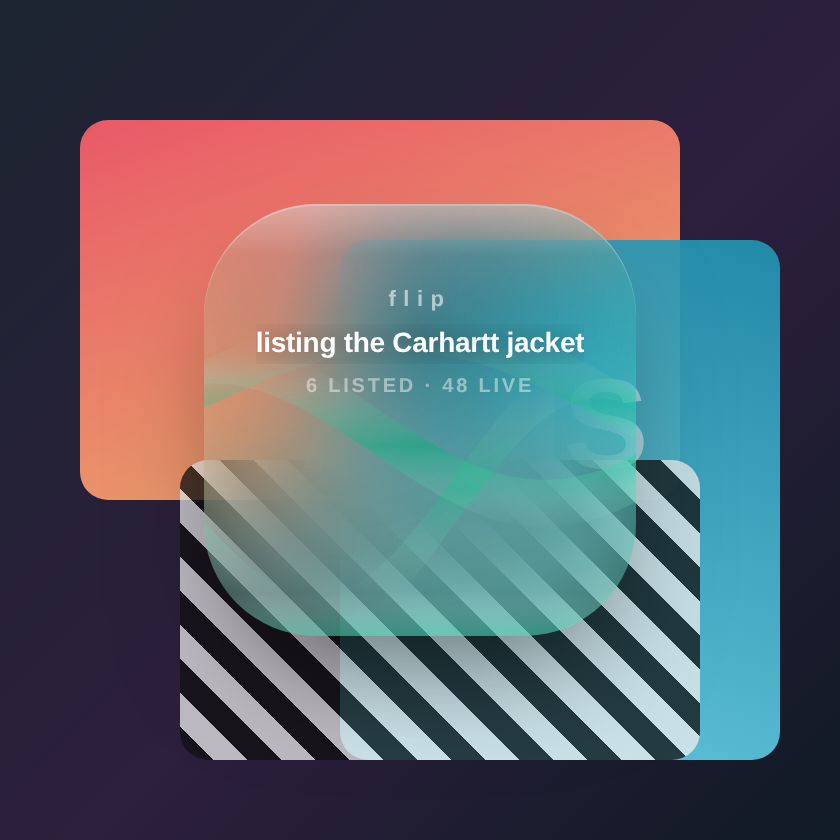
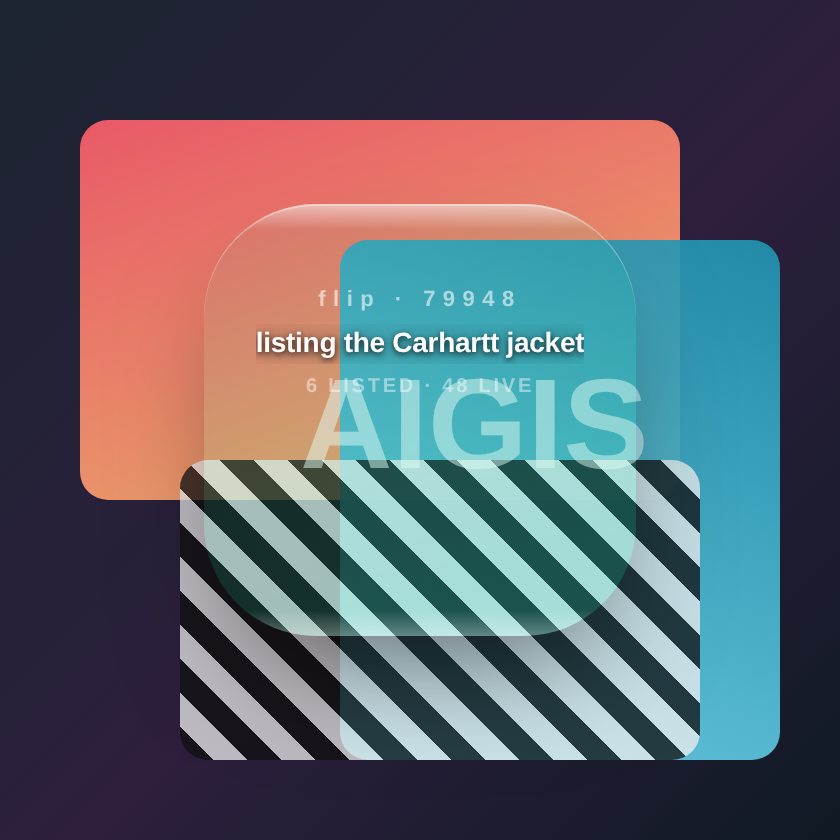
flip: clear glass — no material, no paint, just an edge
Four rounds of 'make it clear' failed because two different things were
making it pale and each fix only addressed one.

Every AppKit material is a tinted panel; there is no thin one.
.underWindowBackground and .fullScreenUI are ~90% white, and .hudWindow in
dark appearance is smoke at ~55% — better than milk, still not clear. Pinning
a light material dark changes its colour without making it thin. So the orb
hides the effect view outright and lets the window be the transparent thing it
already is; every other shape gets it straight back, where a page covers it
anyway.

The rest of the pale was our own canvas: the scrim under the type, three
folding ribbons, the travelling highlight and the caustic. Invisible against a
heavy material, and the only thing left once it was gone. What clear glass
actually has is an edge, so that is all that is drawn now — a bright top rim
and a cool bottom one, nothing across the middle, and the type holding itself
with its own shadow.

And the reason this took four rounds: preview.mjs modelled the material as a
6% white tint. The glass we wanted, not the one AppKit makes. So every render
in here looked right while his Mac showed a slab. A preview that flatters the
material is a second opinion that agrees with you. It now carries the measured
tints, defaults to what ships, and FLIP_MATERIAL renders the others to compare
— which is what finally located the milk.

Claude-Session: https://claude.ai/code/session_0181L2kuKeioRLEVYRzeLmhY

Changed region(s): [[0.2167, 0.2167, 0.7738, 0.7738]]

diff --git a/tools/flip/app/Flip.app/Contents/Resources/Shell/main.swift b/tools/flip/app/Flip.app/Contents/Resources/Shell/main.swift
@@ -353,14 +353,20 @@ final class Shell: NSObject, NSApplicationDelegate, WKScriptMessageHandler, WKNa
       g.addColorStop(0,tint(0.05));g.addColorStop(1,tint(0.16));
       x.fillStyle=g;x.fillRect(0,0,w,h);
 
-      /* A soft scrim under the type only, feathered out well before the edges,
-         so the words hold on any desktop while the pane stays see-through. */
-      var sc=x.createRadialGradient(w/2,h*0.30,4,w/2,h*0.30,w*0.62);
-      sc.addColorStop(0,"rgba(6,10,18,.16)");
-      sc.addColorStop(0.55,"rgba(6,10,18,.05)");
-      sc.addColorStop(1,"rgba(6,10,18,0)");
-      x.fillStyle=sc;x.fillRect(0,0,w,h);
-
+      /*
+       * No scrim. No ribbons. No glare. No frost.
+       *
+       * "I want clear, transparent, not dusty, milky, gray, blurred, or
+       * frosted." Every one of those words named something this canvas was
+       * painting. The scrim under the type, the three folding ribbons, the
+       * travelling highlight and the caustic were all our own light, and with
+       * the material gone they were the only thing left making it pale.
+       *
+       * What a piece of clear glass actually has is an EDGE. So that is all
+       * that is drawn: a bright top rim and a cool bottom one, and nothing
+       * across the middle at all. The type holds itself with its own shadow.
+       * If this ever looks cloudy again, the cloud is something painted here.
+       */
       /*
        * The ribbons.
        *
@@ -370,59 +376,15 @@ final class Shell: NSObject, NSApplicationDelegate, WKScriptMessageHandler, WKNa
        * liquid. This replaced sixteen columns, which were an equaliser from
        * 2010: Apple does not build readouts, it builds substance.
        */
-      x.save(); x.globalCompositeOperation="lighter";
-      for(var i=0;i<3;i++){
-        var sp=(0.26+mix*0.8)*(0.6+i*0.3);
-        var amp=h*(0.10+i*0.03)*(0.7+mix*0.8);
-        var mid=h*(0.46+i*0.10);
-        var gr=x.createLinearGradient(0,mid-amp,0,mid+amp);
-        gr.addColorStop(0,"rgba(255,255,255,0)");
-        gr.addColorStop(0.5, i===1 ? tint(0.16) : tint(0.10));
-        gr.addColorStop(1,"rgba(255,255,255,0)");
-        x.beginPath();
-        for(var px=0;px<=w;px+=3){
-          var y=mid+Math.sin(px/(70-i*14)+t*sp*2.4)*amp
-                   +Math.sin(px/(150+i*30)-t*sp*1.3)*amp*0.6
-                   +lean*amp*1.8*(px/w-0.5)*-2;
-          if(px===0) x.moveTo(px,y); else x.lineTo(px,y);
-        }
-        for(var px2=w;px2>=0;px2-=3){
-          var y2=mid+Math.sin(px2/(70-i*14)+t*sp*2.4)*amp
-                    +Math.sin(px2/(150+i*30)-t*sp*1.3)*amp*0.6
-                    +lean*amp*1.8*(px2/w-0.5)*-2;
-          x.lineTo(px2,y2+h*(0.06+mix*0.05));
-        }
-        x.closePath(); x.fillStyle=gr; x.fill();
-      }
-      x.restore();
 
       /* The rim: a bright top edge and a cool bottom one, so the glass has a
          thickness instead of being a hole cut in the desktop. */
       var r=x.createLinearGradient(0,0,0,h);
-      r.addColorStop(0,"rgba(255,255,255,.16)");
-      r.addColorStop(0.12,"rgba(255,255,255,0)");
-      r.addColorStop(0.9,"rgba(255,255,255,0)");
-      r.addColorStop(1,tint(0.10));
+      r.addColorStop(0,"rgba(255,255,255,.52)");
+      r.addColorStop(0.06,"rgba(255,255,255,0)");
+      r.addColorStop(0.94,"rgba(255,255,255,0)");
+      r.addColorStop(1,"rgba(255,255,255,.30)");
       x.fillStyle=r;x.fillRect(0,0,w,h);
-
-      /* The highlight slides the opposite way to the hand and brightens while
-         it moves, the way a reflection does on a thing being carried. */
-      var sx=w*(0.22+Math.sin(t*0.6)*0.10)-lean*w*0.30;
-      var sy=h*0.16+Math.max(-1,Math.min(1,vy/26))*h*0.16;
-      var glare=0.07+Math.min(0.12,(Math.abs(vx)+Math.abs(vy))/160);
-      var s2=x.createRadialGradient(sx,sy,2,sx,sy,h*0.78);
-      s2.addColorStop(0,"rgba(255,255,255,"+glare+")");s2.addColorStop(1,"rgba(255,255,255,0)");
-      x.fillStyle=s2;x.fillRect(0,0,w,h);
-
-      /* And a caustic raked across the surface by the movement — the bit that
-         reads as thickness. */
-      if (Math.abs(lean)>0.02){
-        var bx=w*(0.5-lean*0.85), bg=x.createLinearGradient(bx-w*0.34,0,bx+w*0.34,h);
-        bg.addColorStop(0,"rgba(255,255,255,0)");
-        bg.addColorStop(0.5,"rgba(255,255,255,"+(Math.abs(lean)*0.09)+")");
-        bg.addColorStop(1,"rgba(255,255,255,0)");
-        x.fillStyle=bg;x.fillRect(0,0,w,h);
-      }
 
       if (document.hidden) { setTimeout(function(){requestAnimationFrame(draw);}, 400); }
       else if (mix < 0.02 && Math.abs(vx) + Math.abs(vy) < 0.5) {
@@ -1018,6 +980,8 @@ final class Shell: NSObject, NSApplicationDelegate, WKScriptMessageHandler, WKNa
     orb?.frame = bounds
     orb?.isHidden = shape != .orb
     frost?.isHidden = true
+    /* Back for every shape but the orb, which hides it again below. */
+    effect?.isHidden = false
     collapse?.isHidden = shape == .orb || shape == .pill
     if shape == .working {
       /*
@@ -1074,6 +1038,25 @@ final class Shell: NSObject, NSApplicationDelegate, WKScriptMessageHandler, WKNa
       /* And no second effect view either: .withinWindow blurs the window's own
          contents, which is now nothing, and it was the other half of the milk. */
       frost?.isHidden = true
+      /*
+       * Clear means clear. No material at all.
+       *
+       * Four builds went into making a material thinner, and the answer was
+       * that every one of them is a tinted panel — .underWindowBackground and
+       * .fullScreenUI are near-opaque, and .hudWindow in dark appearance is
+       * smoke. Smoke is better than milk and still not what he asked for:
+       * "literally leave it clear, bro." The window is already transparent, so
+       * the practical answer is to stop putting a panel behind it.
+       *
+       * What is left is genuinely see-through: whatever is on his screen, then
+       * the canvas on top of it — a rim so the shape has an edge, a soft scrim
+       * only under the type so the words stay readable, and the light. The
+       * object reads as a lens rather than a tile, which is what glass is.
+       *
+       * The effect view stays alive and keeps its material; it comes straight
+       * back for every other shape, where a page is drawn over it anyway.
+       */
+      effect?.isHidden = true
       /* Nothing here is a pane. The whole orb is a handle, so it drags — and
          ChromeView calls back on a mouse-up that never moved, which is the
          click that opens it. */

diff --git a/.claude/skills/flip-ui/SKILL.md b/.claude/skills/flip-ui/SKILL.md
@@ -140,3 +140,48 @@ Once the tint thins out, legibility has to come from the type rather than the pa
 the canvas scrim under the text drops to `.26 → .10 → 0` and the status line carries a
 tight `0 1px 3px rgba(0,0,0,.85)` shadow under its soft one. Light on the type, not a
 wall behind it.
+
+## Clear means no material and no paint
+
+His words, after four builds of it coming back grey: *"I want clear, transparent,
+not dusty, milky, gray, blurred, or frosted."*
+
+Two separate things were making it pale, and fixing one at a time is what cost the
+four rounds.
+
+**1. Every AppKit material is a tinted panel.** There is no thin one.
+
+| Material | What it actually lays over the backdrop |
+|---|---|
+| `.underWindowBackground` | ~92% — a white panel |
+| `.fullScreenUI` | ~85% — a white panel |
+| `.hudWindow` + `.darkAqua` | ~55% — smoke. Better, still not clear. |
+
+Pinning a light material to dark appearance changes its colour without making it
+thin. So **the orb hides the effect view entirely** (`effect?.isHidden = true` in the
+`.orb` branch of `layoutChrome`, restored for every other shape). The window is
+already transparent; the practical answer is to stop putting a panel behind it.
+
+**2. The canvas was painting the rest of it.** The scrim under the type, the three
+folding ribbons, the travelling highlight and the caustic were all our own light —
+invisible against a heavy material, and the only thing left once it was gone.
+
+So the canvas now draws **an edge and nothing else**: a bright top rim (`.52` white)
+and a cool bottom one (`.30`), feathered at `0.06` and `0.94`, with nothing at all
+across the middle. The type holds itself with its own shadow. **If it ever looks
+cloudy again, the cloud is something painted in that canvas.**
+
+## Never check a render against a fake material
+
+`preview.mjs` modelled the window material as `rgba(255,255,255,.06)`. A 6% tint —
+the glass we wanted, not the glass AppKit makes. So the orb rendered beautifully here
+and arrived on his Mac as a slab, four builds running, and every render agreed it was
+fine. **A preview that flatters the material is worse than no preview: it is a second
+opinion that agrees with you.**
+
+It now holds the measured tints in `MATERIALS` and defaults to `clear`, which is what
+ships. `FLIP_MATERIAL=fullScreenUI node preview.mjs <dir>` renders any of the others
+for comparison — that comparison is what finally proved where the milk came from.
+
+**Every design round is rendered and looked at here before it is packed.** Not
+described, not reasoned about — opened.
